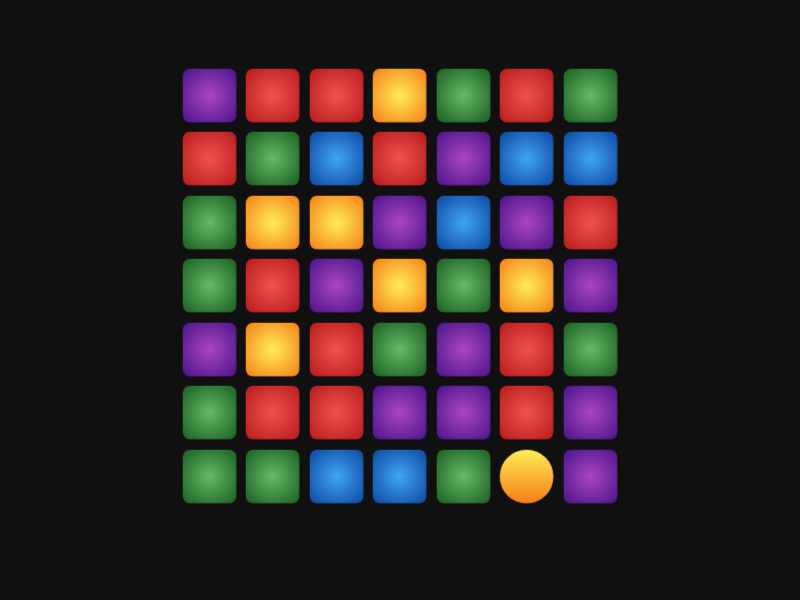
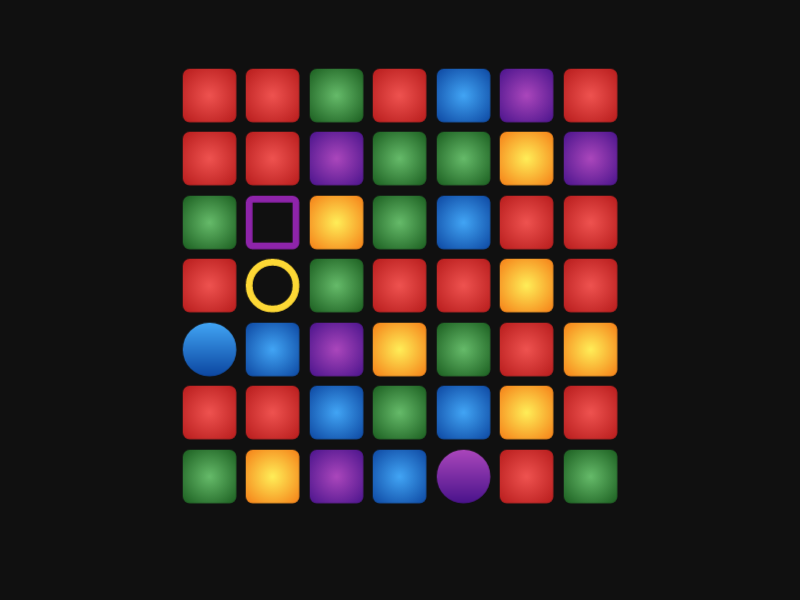
dynamic screen shots working!

Changed region(s): [[0.2188, 0.09, 0.7812, 0.84]]

diff --git a/src/pages/landing/projects/project-card.tsx b/src/pages/landing/projects/project-card.tsx
@@ -10,8 +10,8 @@ import { makeStyles } from "@material-ui/core/styles";
 import Typography from "@material-ui/core/Typography";
 import CodeIcon from "@material-ui/icons/Code";
 import LinkIcon from "@material-ui/icons/Link";
-import Image from "next/image";
-import React from "react";
+
+import React, { useState, useEffect } from "react";
 import { IProject } from "../../../data-access/projects";
 
 const useStyles = makeStyles(() => ({
@@ -30,10 +30,44 @@ const useStyles = makeStyles(() => ({
   },
 }));
 
+const getScreenShot = async ({
+  liveSiteUrl,
+  timeout,
+}: {
+  liveSiteUrl: string;
+  timeout?: number;
+}) => {
+  const response = await fetch(
+    `/api/screenshot?targetUrl=${liveSiteUrl}&timeout=${timeout}`
+  );
+
+  const blob = await response.blob();
+
+  const src = URL.createObjectURL(blob);
+
+  return src;
+};
+
 export const ProjectCard = ({ project }: { project: IProject }) => {
-  const { src, title, description, liveSiteUrl, sourceCodeUrl } = project;
+  const { title, description, liveSiteUrl, sourceCodeUrl } = project;
 
   const classes = useStyles();
+
+  const [src, setSrc] = useState<string | null>(null);
+  const [, setState] = useState<"loading" | "success" | "error">("loading");
+
+  useEffect(() => {
+    setState("loading");
+
+    getScreenShot({ liveSiteUrl, timeout: 5000 })
+      .then((src) => {
+        setSrc(src);
+        setState("success");
+      })
+      .catch(() => {
+        setState("error");
+      });
+  }, [liveSiteUrl]);
 
   return (
     <Card className={classes.card}>
@@ -42,7 +76,19 @@ export const ProjectCard = ({ project }: { project: IProject }) => {
       <Link href={liveSiteUrl}>
         <CardActionArea>
           <Box className={classes.media}>
-            <Image layout="fill" alt={description} src={src} />
+            {src && (
+              <img
+                src={src}
+                alt={description}
+                style={{
+                  position: "absolute",
+                  top: 0,
+                  left: 0,
+                  width: "100%",
+                  height: "100%",
+                }}
+              />
+            )}
           </Box>
         </CardActionArea>
       </Link>

diff --git a/src/data-access/projects.ts b/src/data-access/projects.ts
@@ -6,14 +6,6 @@ import {
 import { castUrl, encodeUrl } from "../utility";
 import { descend } from "../utility/sort";
 
-export const toProjectScreenShootSrc = ({
-  liveSiteURL,
-}: {
-  liveSiteURL: string;
-}) => {
-  return `/project-screenshots/${encodeUrl(liveSiteURL)}.png`;
-};
-
 export type IProjectId = {
   title: string;
   github: {
@@ -24,7 +16,6 @@ export type IProjectId = {
 
 export type IProject = {
   projectId: IProjectId;
-  src: string;
   title: string;
   liveSiteUrl: string;
   sourceCodeUrl: string;
@@ -48,7 +39,6 @@ const getOneProject = async (projectId: IProjectId): Promise<IProject> => {
   const description = repositoryData.description ?? "";
   const sourceCodeUrl = castUrl(repositoryData.html_url);
   const title = projectId.title;
-  const src = toProjectScreenShootSrc({ liveSiteURL: liveSiteUrl });
   const topics = repositoryTopicsData.names ?? [];
 
   return {
@@ -57,7 +47,6 @@ const getOneProject = async (projectId: IProjectId): Promise<IProject> => {
     description,
     sourceCodeUrl,
     title,
-    src,
     topics,
   };
 };

diff --git a/pages/api/screenshot.ts b/pages/api/screenshot.ts
@@ -1,0 +1,38 @@
+import { NextApiHandler } from "next";
+import puppeteer from "puppeteer";
+import { delay } from "../../src/utility";
+
+export const handler: NextApiHandler = async (req, res) => {
+  const targetUrl = req.query.targetUrl;
+  const timeout = Number(req.query.timeout) ?? 3000;
+
+  if (!(typeof targetUrl === "string")) {
+    res.status(400).json({
+      message: "targetUrl query param required",
+    });
+    return;
+  }
+
+  const browser = await puppeteer.launch({
+    args: ["--no-sandbox", "--disable-setuid-sandbox"],
+  });
+
+  const page = await browser.newPage();
+
+  page.goto(targetUrl);
+
+  await delay(timeout);
+
+  const imageBuffer = await page.screenshot({
+    type: "png",
+  });
+
+  res.writeHead(200, {
+    "Content-Type": "image/png",
+    "Content-Length": imageBuffer.length,
+  });
+
+  res.end(imageBuffer);
+};
+
+export default handler;

diff --git a/pages/index.tsx b/pages/index.tsx
@@ -4,11 +4,8 @@ import {
   ILandingPageProps,
   LandingPage,
 } from "../src/pages/landing";
-import { generateAssets } from "../src/scripts/generate-assets/generate-assets";
 
 export const getStaticProps: GetStaticProps<ILandingPageProps> = async () => {
-  await generateAssets();
-
   return {
     revalidate: 60,
     props: {

diff --git a/src/scripts/generate-assets/generate-assets.ts b/src/scripts/generate-assets/generate-assets.ts
@@ -1,10 +1,8 @@
 import dotenv from "dotenv";
-import { generateAllProjectScreenshots } from "./generate-project-screenshots";
 import { generateRobotsTxt } from "./generate-robots-txt";
 
 dotenv.config();
 
 export const generateAssets = async () => {
   await generateRobotsTxt();
-  await generateAllProjectScreenshots();
 };
